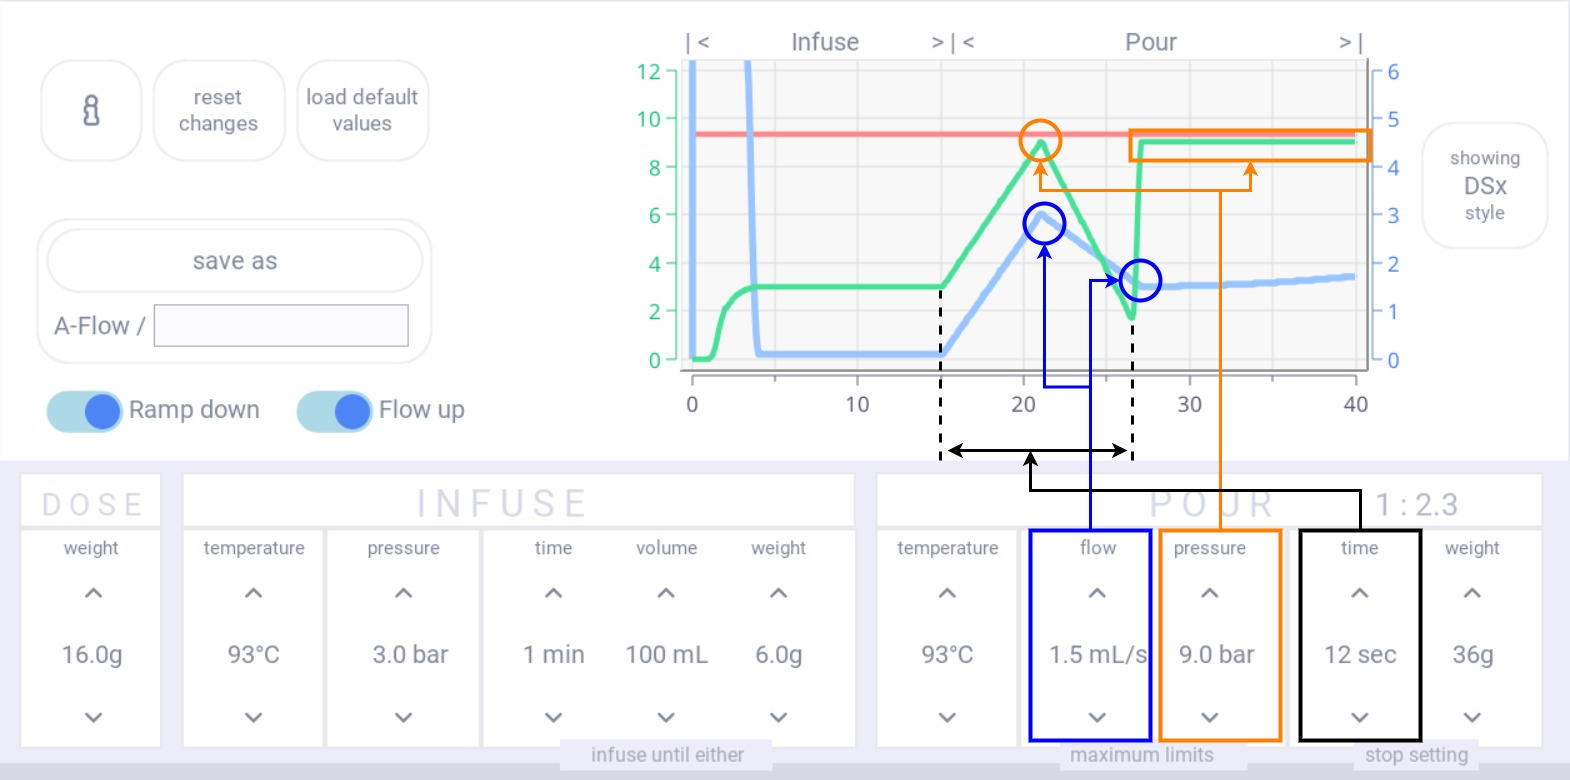
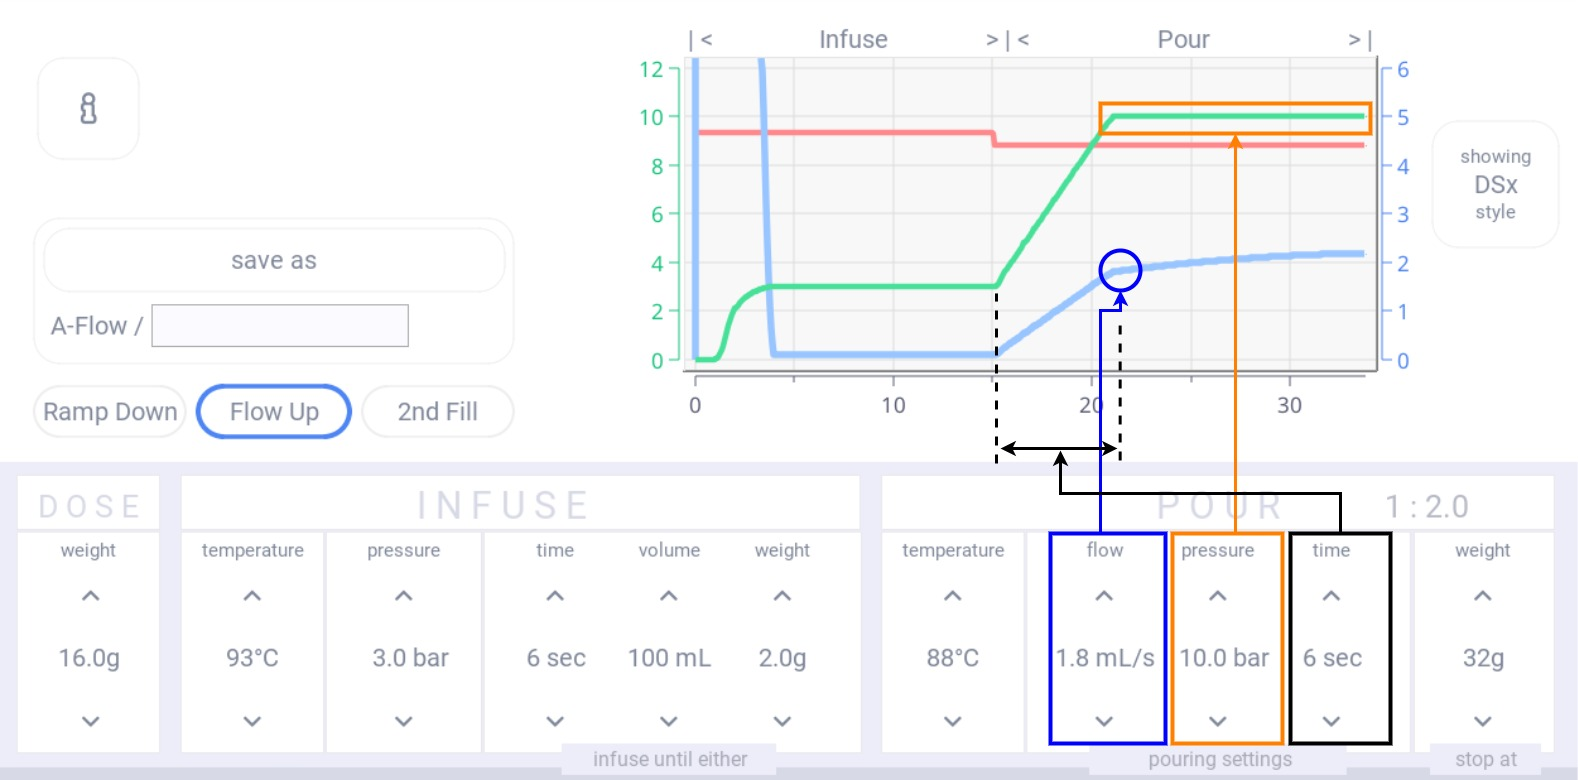
update readme

diff --git a/readme.md b/readme.md
@@ -22,10 +22,11 @@ There is no golden rule, that fits all beans. Stop optimizing when it tastes goo
 The profile has the following steps and default values: 
 1. **Fill**: fill step with 8 ml/s flow until pressure reaches 3 bar
 2. **Infuse**: pressurized infusion or soaking step with 3 bar pressure and move on by weight
-3. **Pressure Up**: ramp pressure up to set pouring pressure and move on by flow over. The flow threshold depends on `Ramp down`. If enabled the threshold is 2 times the pouring flow. If disabled the threshold is equal to the pouring flow  
-4. **Pressure Decline**: ramp pressure down to 1 bar and move on by flow under pouring flow. Step can be disabled by `Ramp down` toggle 
-5. **Flow Start**: only active if pouring time is set to 0s, to enable a fast transition to flow extraction. 
-6. **Flow Extraction**: flow extraction with increasing (`Flow up` enabled) or decreasing flow ramp 
+3. **2nd Fill**: if enabled a second fill step is added with 8 ml/s flow until pressure reaches 2.5 bar, followed by a pause step until flow is under 1 ml/s
+4. **Pressure Up**: ramp pressure up to set pouring pressure and move on by flow over. The flow threshold depends on `Ramp down`. if enabled the threshold is 2 times the pouring flow. If disabled the threshold is equal to the pouring flow  
+5. **Pressure Decline**: ramp pressure down to 1 bar and move on by flow under pouring flow. Step can be disabled by `Ramp down` toggle 
+6. **Flow Start**: only active if pouring time is set to 0s, to enable a fast transition to flow extraction. 
+7. **Flow Extraction**: flow extraction with increasing (`Flow up` enabled) or decreasing flow ramp 
 
 ### Pouring Parameters
 Infuse parameters are not changed compared to D-Flow. Only the fill step is different with 8ml/s flow. 
@@ -40,9 +41,11 @@ Infuse parameters are not changed compared to D-Flow. Only the fill step is diff
   * `Ramp down` disabled: duration of pressure up step
 * **Weight**: final stop by weight threshold
 
-The screenshot below shows flow, pressure and time parameter and points to the parts, which are defined by these parameters.
+The screenshots below show flow, pressure and time parameter for `Ramp down` disabled and enabled.
 
 ![a_flow.jpg](img%2Fa_flow.jpg)
+
+![a_flow_ramp_down.jpg](img%2Fa_flow_ramp_down.jpg)
 
 ### Default Profiles
 The plugin comes with 5 default profiles, which can be used as a starting point. 
